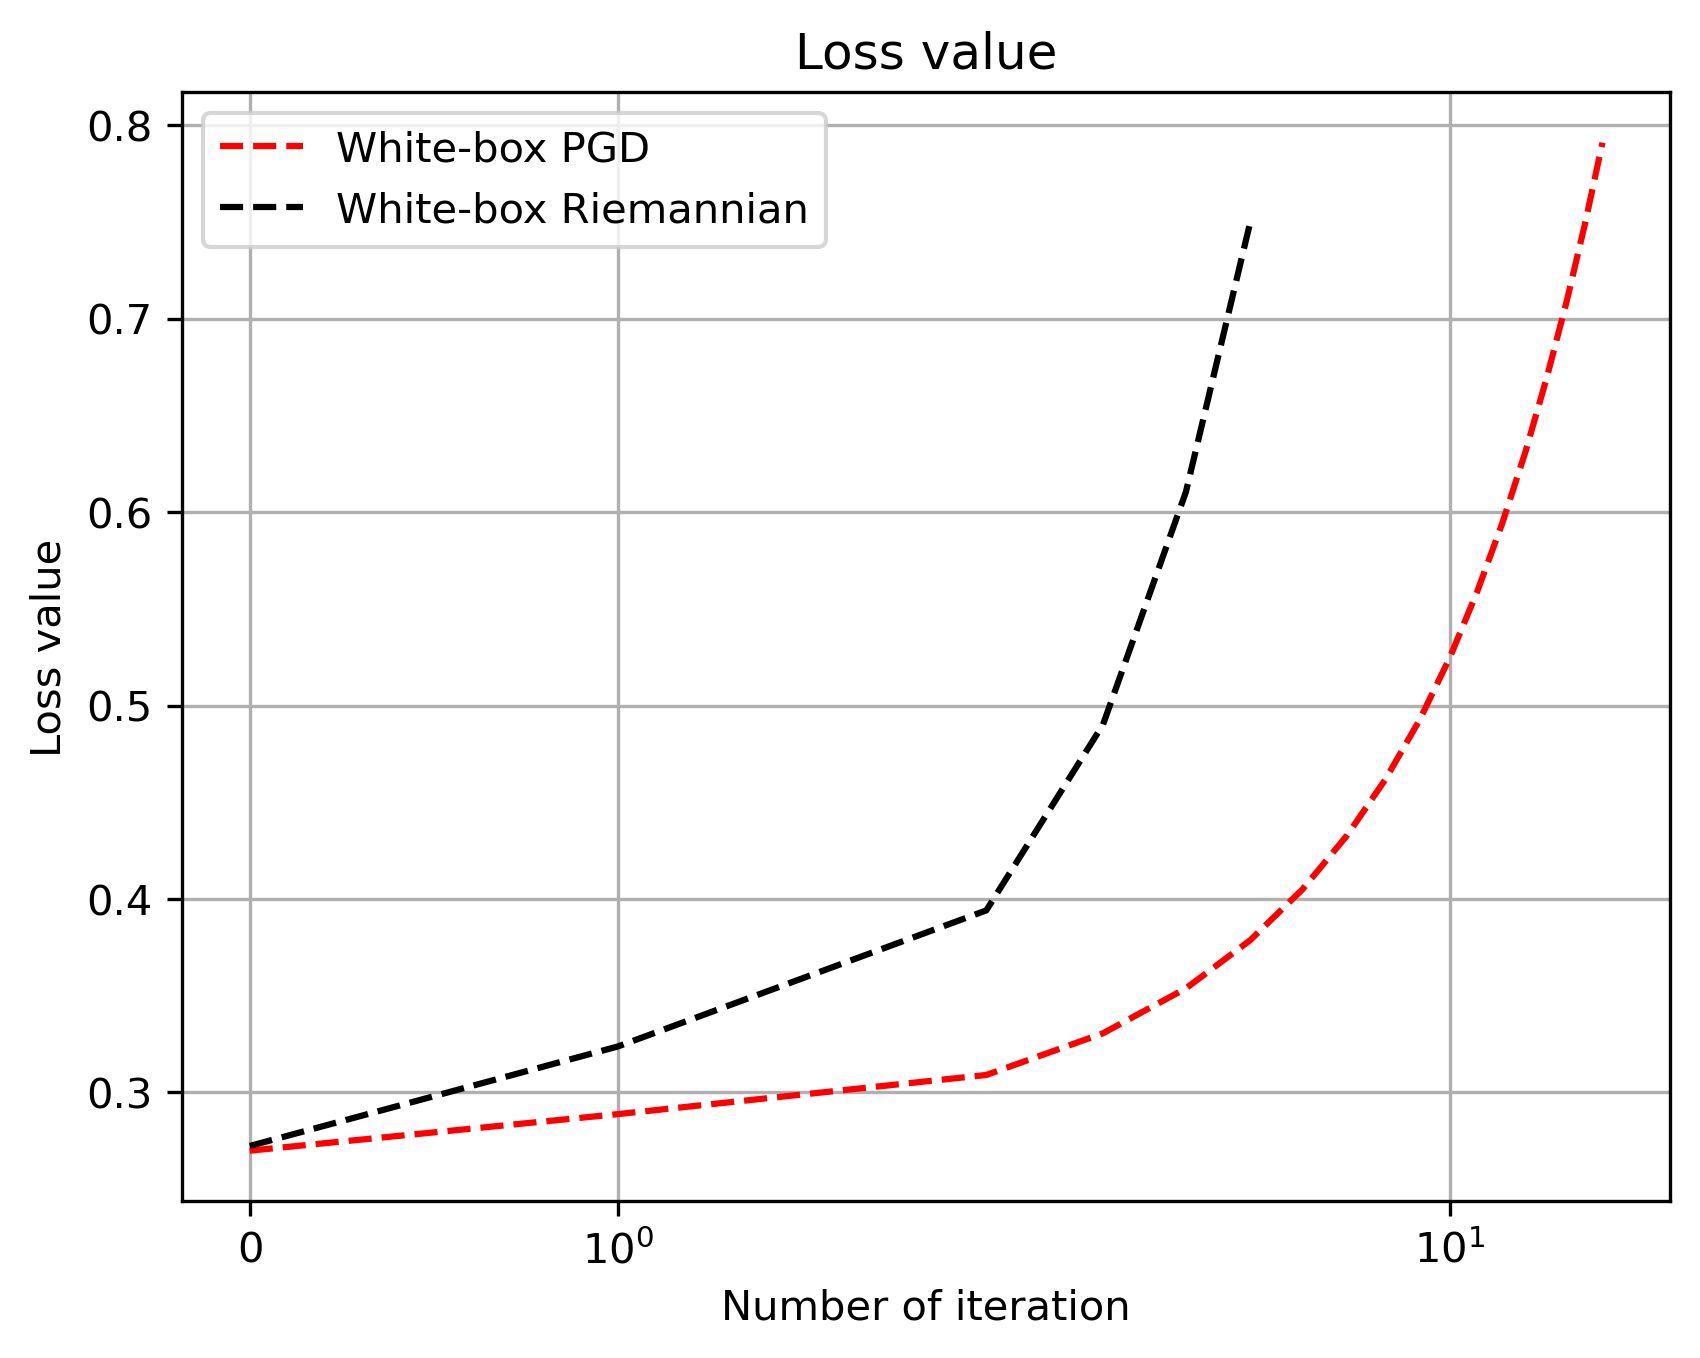
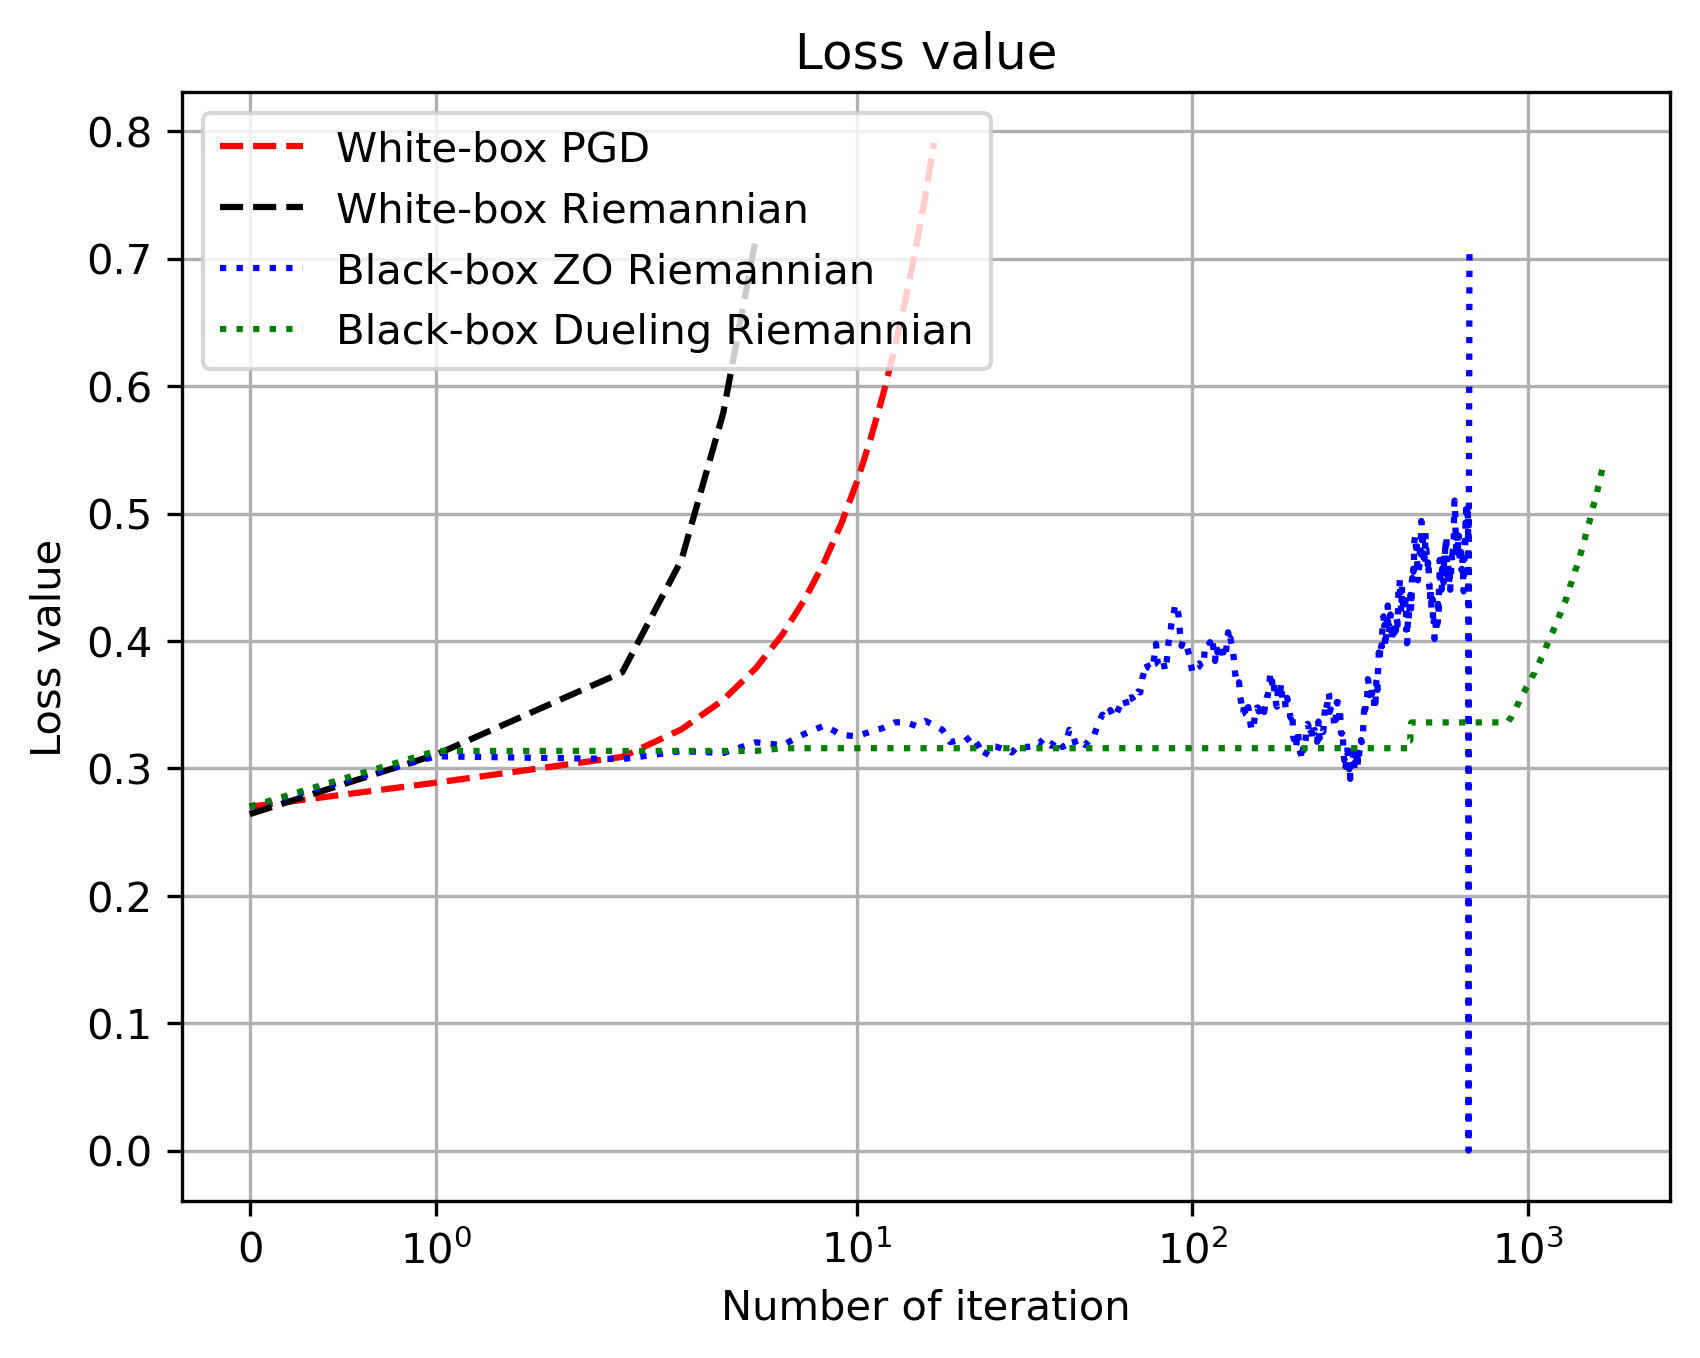
update dueling attack

diff --git a/black-box attack/zo_attack.py b/black-box attack/zo_attack.py
@@ -339,6 +339,8 @@ def rzo_attack(model, images, labels, eps=0.05, alpha=1e-3, pre_alpha=0.05, pre_
         val_perturb[k + i] = cost.cpu().data.numpy()
         time_perturb[k + i] = time.time() - start
 
+
+
     return images, k + i, val_perturb, time_perturb
 
 #Riemannian Dueling attack
@@ -359,6 +361,9 @@ def rd_attack(model, images, labels, eps=0.05, alpha=1e-3, pre_alpha=0.05, pre_i
     val_perturb = np.zeros(pre_iter + iters)
     time_perturb = np.zeros(pre_iter + iters)
     k = 0
+
+    # --- running best-so-far (lower is better) ---
+    best = float("-inf")
 
     print("Riemannian Dueling attack running, maximum perturbation norm", max_norm.cpu().data.numpy())
     print("Scheme 1: escaping from the original image")
@@ -398,13 +403,16 @@ def rd_attack(model, images, labels, eps=0.05, alpha=1e-3, pre_alpha=0.05, pre_i
             break
         else:
             images = ori_images + eta
-        val_perturb[k] = cost.cpu().data.numpy()
+
+        # keep best-so-far
+        best = max(best, cost.detach().item())
+        val_perturb[k] = best
         time_perturb[k] = time.time() - start
 
         print("RDueling pre_attack iteration: %s, loss function value: %f, distance from original image: %f" % (
             k, val_perturb[k], torch.norm(images - ori_images).cpu().data.numpy()))
 
-    k = k + 1
+    # k = k + 1
 
     print("Scheme 2: optimization on the ball")
     for i in range(iters):
@@ -436,6 +444,10 @@ def rd_attack(model, images, labels, eps=0.05, alpha=1e-3, pre_alpha=0.05, pre_i
             nrm  = torch.linalg.vector_norm(temp, ord=2, dim=dims, keepdim=True)
             temp = temp / (nrm.clamp_min(1e-12))
 
+            # trace_AtA = (temp ** 2).sum()
+            # print(f"trace(A^T A) = {trace_AtA.item():.6f}")
+
+
             temp_eta1 = (eta + mu * temp) / torch.norm(eta + mu * temp) * max_norm  # retraction
             temp_eta1 = temp_eta1.to(device)
             temp_image1 = ori_images + temp_eta1
@@ -450,14 +462,17 @@ def rd_attack(model, images, labels, eps=0.05, alpha=1e-3, pre_alpha=0.05, pre_i
 
             # grad_estimate = grad_estimate + (cost_temp - cost) / mu * temp
             sign = torch.where(
-                cost_temp1 < cost_temp2,
+                cost_temp1 > cost_temp2,
                 torch.tensor(1.0, device=temp.device, dtype=temp.dtype),
                 torch.tensor(-1.0, device=temp.device, dtype=temp.dtype),
             )
-            grad_estimate = sign * temp
+            grad_estimate = grad_estimate + sign * temp
             grad_estimate = grad_estimate.detach_()
 
         grad_estimate = grad_estimate / m
+        dims = tuple(range(1, grad_estimate.ndim))
+        nrm  = torch.linalg.vector_norm(grad_estimate, ord=2, dim=dims, keepdim=True)
+        grad_estimate = grad_estimate / (nrm.clamp_min(1e-12))
         grad_estimate = grad_estimate.detach_()
 
         # update
@@ -470,7 +485,10 @@ def rd_attack(model, images, labels, eps=0.05, alpha=1e-3, pre_alpha=0.05, pre_i
         print("RDueling attack iter: %s, loss function value: %f, distance from original image: %f" % (
             i, cost.cpu().data.numpy(), torch.norm(images - ori_images).cpu().data.numpy()))
 
-        val_perturb[k + i] = cost.cpu().data.numpy()
+        # keep best-so-far
+        best = max(best, cost.detach().item())
+        val_perturb[k + i] = best
         time_perturb[k + i] = time.time() - start
-
+        
     return images, k + i, val_perturb, time_perturb
+

diff --git a/black-box attack/main.py b/black-box attack/main.py
@@ -193,7 +193,7 @@ def main():
                   np.linalg.norm(distance.cpu().data.numpy()))
 
             # Riemannian Dueling attack
-            images, i5, val_perturb_rd, time_perturb_5 = rd_attack(model, ori_images, labels, m=500)
+            images, i5, val_perturb_rd, time_perturb_5 = rd_attack(model, ori_images, labels, m=100)
             labels = labels.to(device)
             outputs = model(images)
 
@@ -227,7 +227,7 @@ def main():
     plot_path1 = os.path.join(save_dir, "loss_vs_iteration.png")
     plt.savefig(plot_path1, dpi=300, bbox_inches='tight')
     print(f"Saved: {plot_path1}")
-    plt.close(fig)   # close to free memory
+    plt.close(fig)
 
     fig, ax = plt.subplots()
     plt.xscale('symlog')
